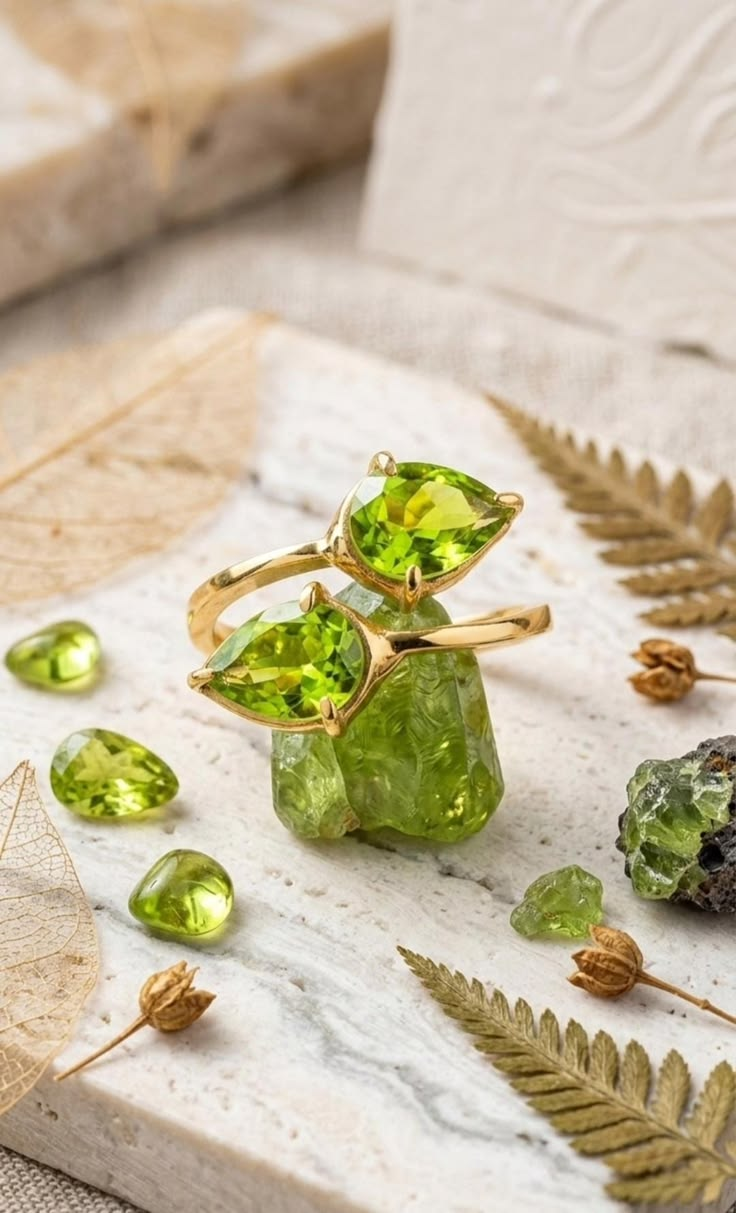
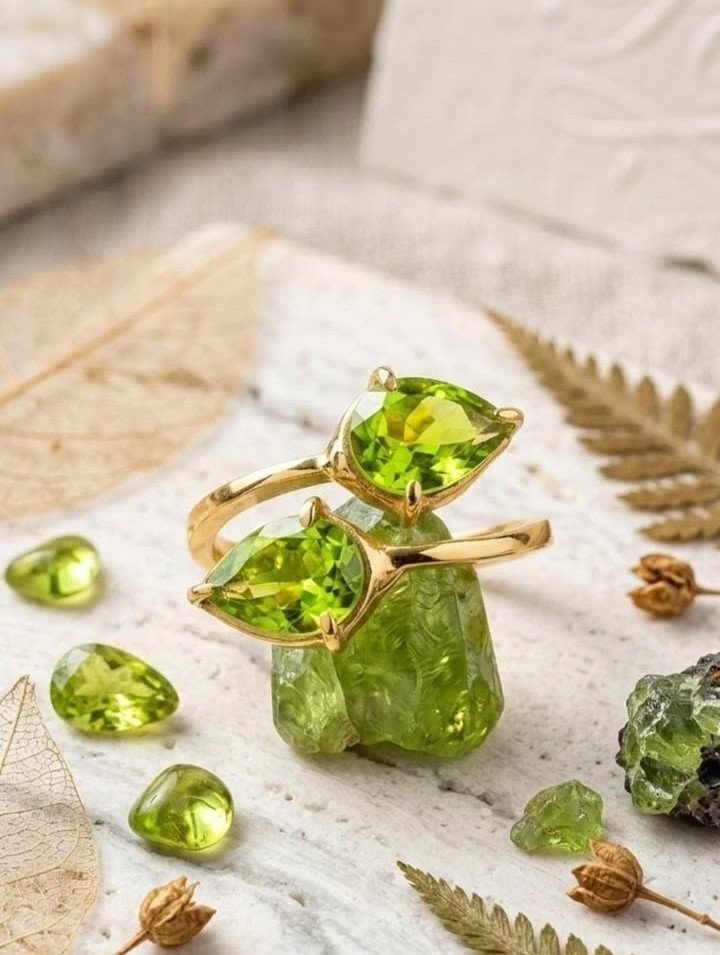
per ch

diff --git a/index.html b/index.html
@@ -453,13 +453,13 @@
         <div class="emerald-images  peridot-gallery">
           <img src="./images/per nec 1.jpg" alt="peridot necklace">
 
-          <img src="./images/per ring 4.jpg" alt="peridot ring">
+          <img src="./images/per brooch.jpg" alt="peridot ring">
 
           <img src="./images/per brac 1.jpg" alt="peridot bracelate">
 
           <img src="./images/per set 1.jpg" alt="peridot set">
 
-          <img src="./images/per brooch.jpg" alt="peridot brooch">
+          <img src="./images/per ring 4.jpg" alt="peridot brooch">
 
           <img src="./images/per neck 2.jpg" alt="peridot necklace">
         </div>
